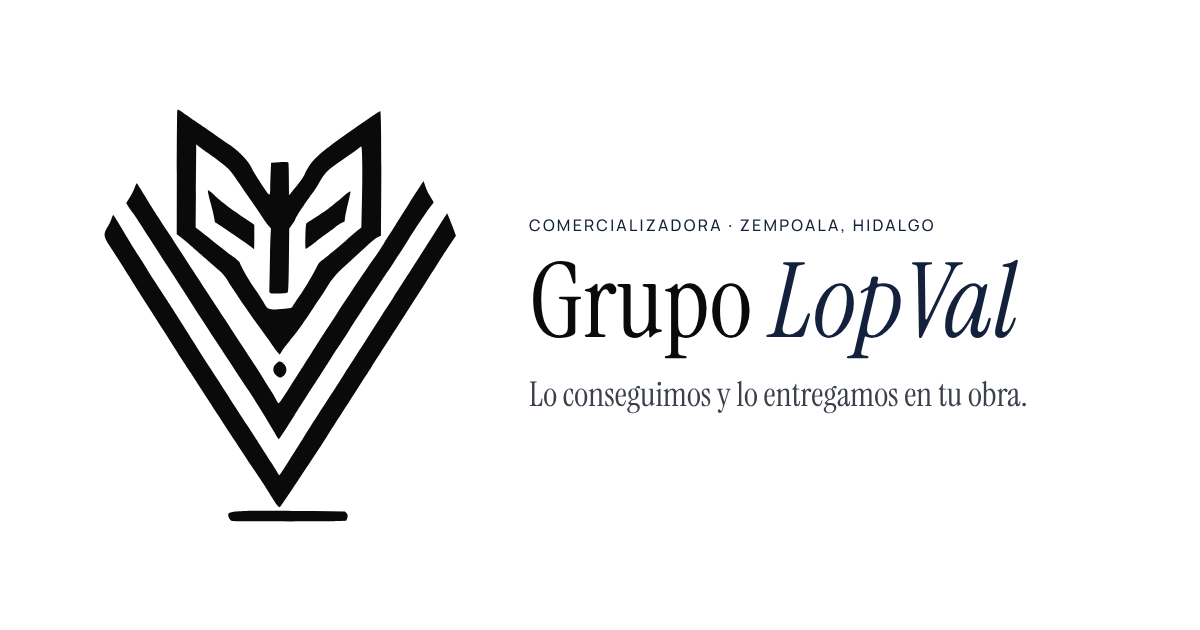
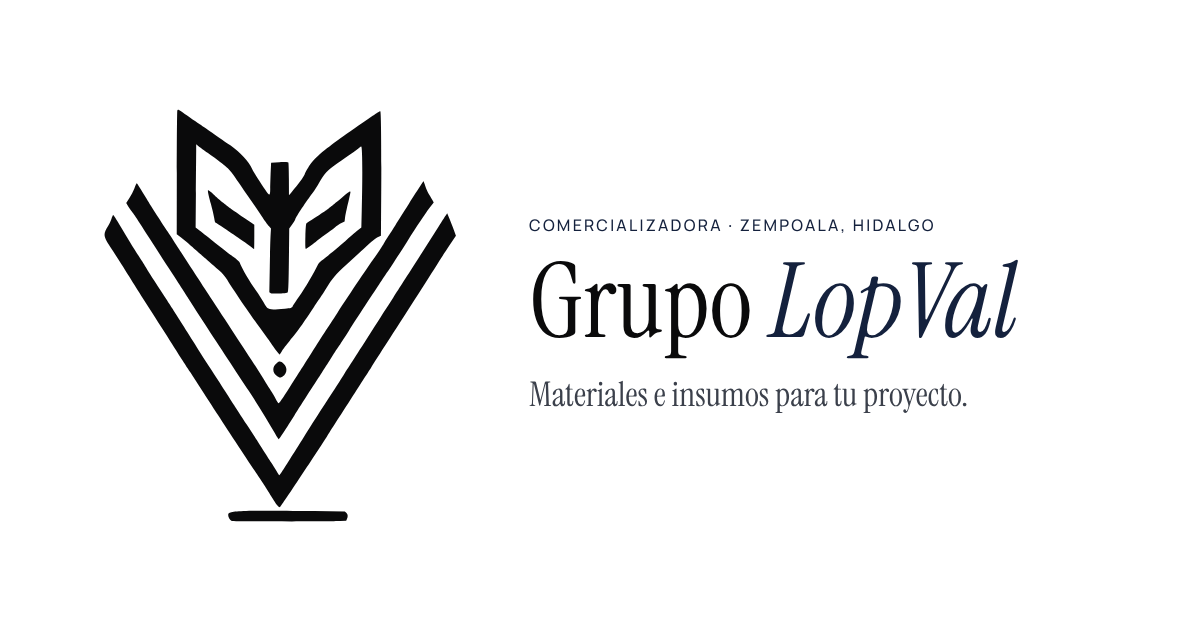
Nueva frase de portada: 'Materiales e insumos para tu proyecto.'
Claude-Session: https://claude.ai/code/session_01F5BajYmw6mwDDvixTrLRMm

Changed region(s): [[0.4317, 0.6032, 0.8633, 0.6635]]

diff --git a/index.html b/index.html
@@ -10,7 +10,7 @@
   <meta property="og:image:width" content="1200">
   <meta property="og:image:height" content="630">
   <meta property="og:type" content="website">
-  <meta property="og:title" content="Grupo LopVal · Lo conseguimos y lo entregamos en tu obra">
+  <meta property="og:title" content="Grupo LopVal · Materiales e insumos para tu proyecto">
   <meta property="og:description" content="Comercializadora en Hidalgo: conseguimos materiales, refacciones, herramientas y químicos y los entregamos en tu obra o planta.">
   <meta property="og:locale" content="es_MX">
   <meta property="og:image" content="https://grupolopval.com/assets/img/og-image.png?v=20261108">
@@ -49,7 +49,7 @@
     "url": "https://grupolopval.com/",
     "logo": "https://grupolopval.com/assets/img/favicon-512.png",
     "description": "Comercializadora mexicana con sede en Hidalgo: consigue, consolida y entrega en sitio bienes para la industria, la construcción y el sector público.",
-    "slogan": "Lo conseguimos y lo entregamos en tu obra.",
+    "slogan": "Materiales e insumos para tu proyecto.",
     "sameAs": [
       "https://www.linkedin.com/in/grupo-lopval-004a9a441",
       "https://www.facebook.com/share/1BfEWRg7Hn/",
@@ -98,9 +98,8 @@
       <div class="hero__inner">
         <p class="eyebrow hero__eyebrow"><span class="eyebrow__line"></span>Comercializadora · Zempoala, Hidalgo</p>
         <h1 class="hero__title">
-          <span class="line"><span>Lo conseguimos</span></span>
-          <span class="line"><span>y lo entregamos</span></span>
-          <span class="line"><span><em>en tu obra.</em></span></span>
+          <span class="line"><span>Materiales e insumos</span></span>
+          <span class="line"><span><em>para tu proyecto.</em></span></span>
         </h1>
         <div class="hero__foot">
           <p class="hero__lead">Somos una <strong>comercializadora mexicana</strong> con sede en Hidalgo. Conseguimos los bienes que la industria, la construcción y el sector público necesitan, y los entregamos en sitio, <strong>listos para usarse.</strong></p>
@@ -390,7 +389,7 @@
         <svg class="brand__mark" viewBox="0 0 519 607" aria-hidden="true"><use href="#lv-logo"/></svg>
         <span class="brand__name">Grupo <b>LopVal</b></span>
       </a>
-      <p class="footer__tag">Lo conseguimos y lo entregamos en tu obra.</p>
+      <p class="footer__tag">Materiales e insumos para tu proyecto.</p>
       <div class="footer__end">
         <ul class="footer__social" aria-label="Redes sociales">
           <li><a href="https://www.linkedin.com/in/grupo-lopval-004a9a441" target="_blank" rel="noopener">LinkedIn</a></li>
